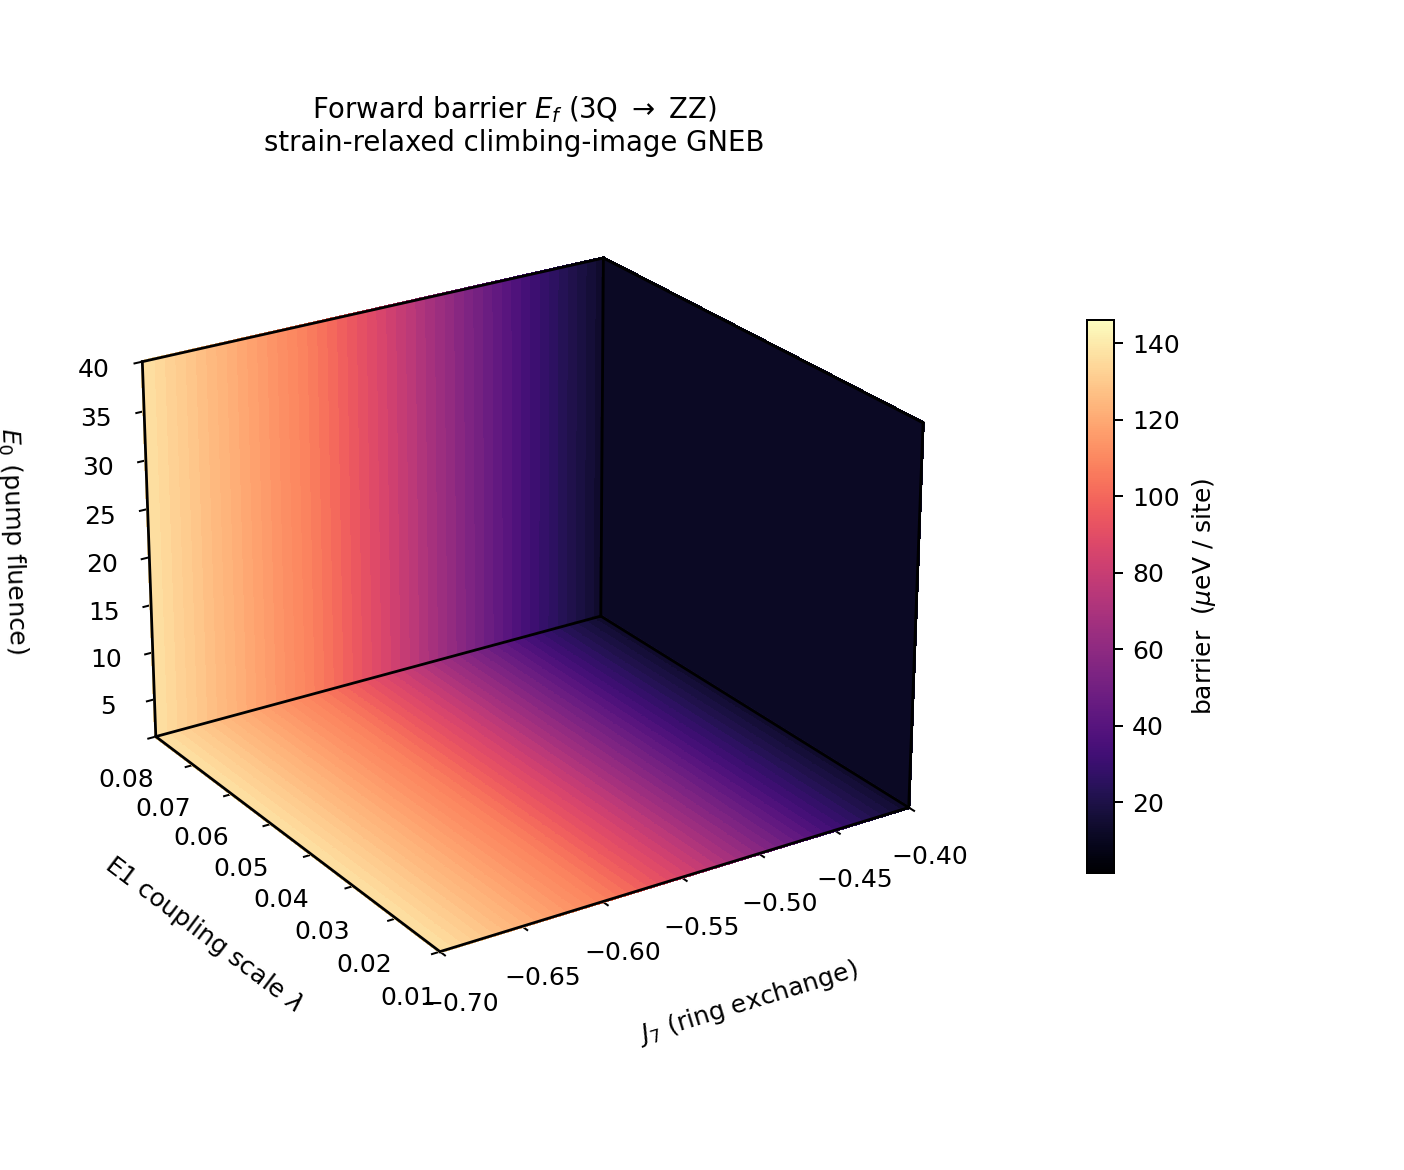
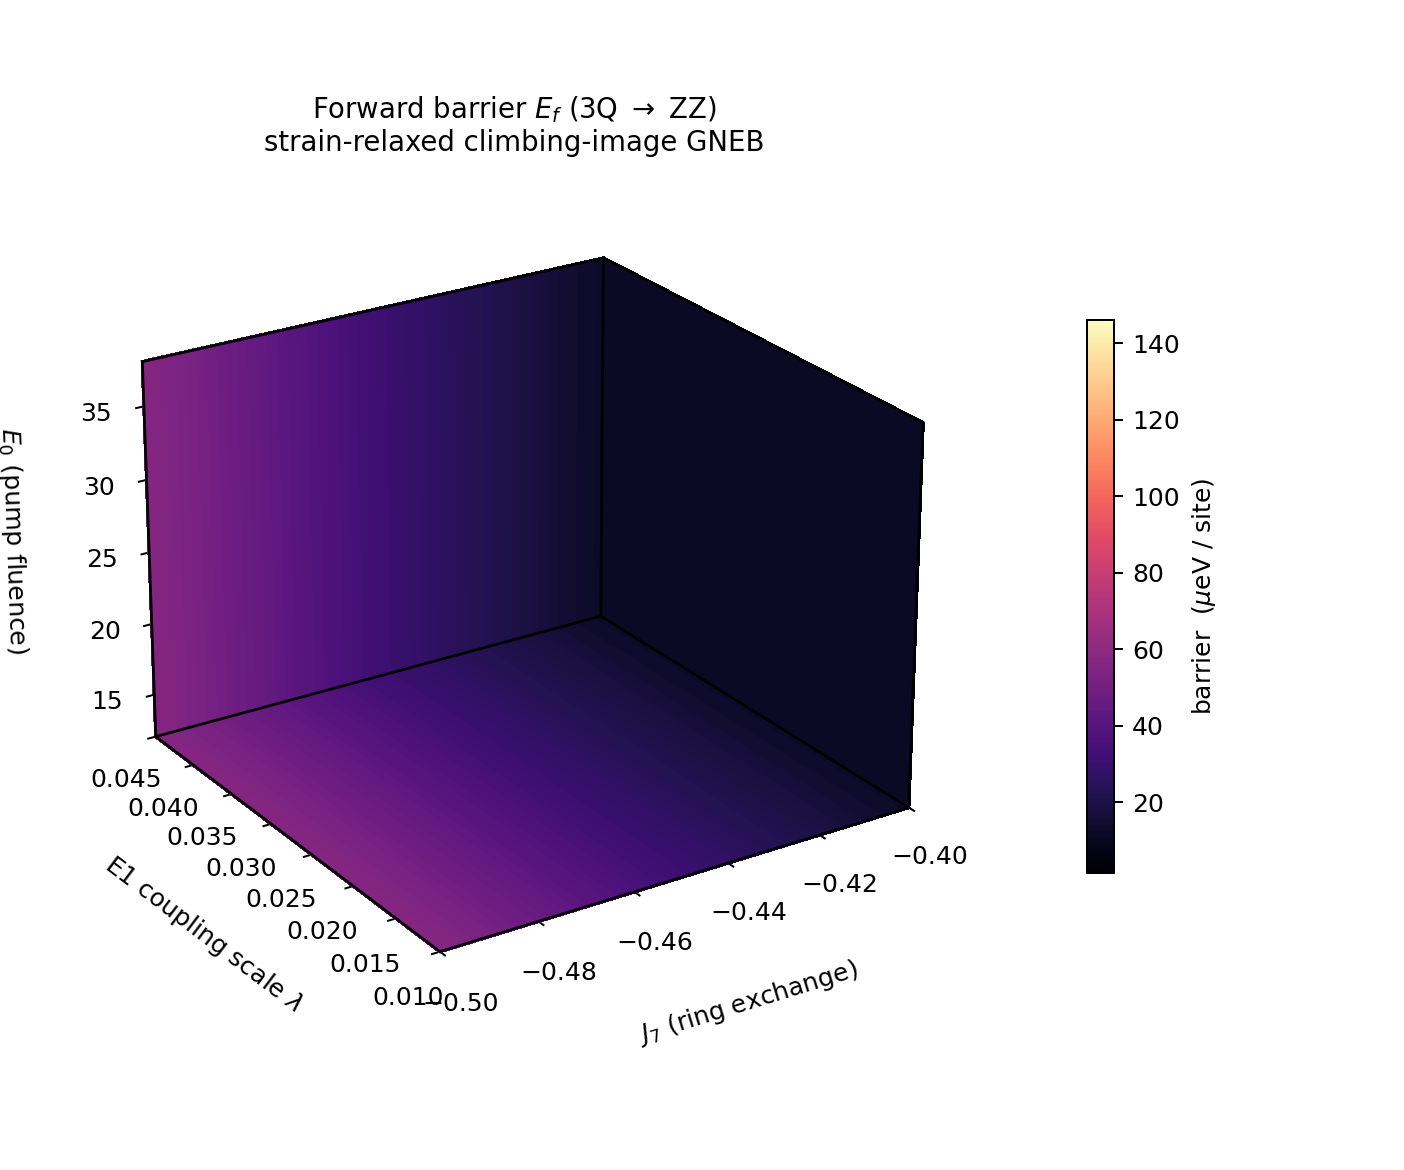
Deliverable 3 redo: merge into kinetic_barrier/, continuation GNEB width sweep
- Folder merge: critical_radius/finite_size_scan -> kinetic_barrier/ (bad legacy
  name from the abandoned side-investigation). L-scaling summary now lives in
  kinetic_barrier/finite_size_scaling/; new width sweep in kinetic_barrier/width_sweep/.
- Root cause of the discontinuous barrier(hw): each hw used an independent slerp
  band + fresh endpoint relaxations -> different MEP basins. New
  gneb_barrier_width_sweep.py sweeps hw ascending with CONTINUATION (endpoints
  and band warm-started from the previous hw), heavier convergence (25 images,
  4000 iters, climb at 2400) -> one continuous MEP family, barrier_vs_hw.csv
  in the style of barrier_vs_j7.csv.
- plot_kinetic_barrier_width.py reads the new CSV; output kinetic_barrier/.

Changed region(s): [[0.0613, 0.2154, 0.6432, 0.8615], [0.5819, 0.7385, 0.6432, 0.7692], [0.2756, 0.8308, 0.3063, 0.8615]]

diff --git a/NCTO_project/scripts/gneb_barrier_width_sweep.py b/NCTO_project/scripts/gneb_barrier_width_sweep.py
@@ -1,0 +1,119 @@
+#!/usr/bin/env python3
+"""Kinetic depinning barrier vs defect width -- continuation GNEB sweep.
+
+Computes the 3Q<->ZZ depinning barrier of the enhanced-|K| line defect as a
+function of half-width hw at fixed L, sweeping hw in ascending order with
+CONTINUATION: each hw warm-starts both its endpoints and its GNEB band from the
+previous hw's converged result.  This keeps the whole sweep on one continuous
+family of minimum-energy paths, eliminating the basin-hopping scatter that an
+independent initialization per hw produces.
+
+Outputs (merged into the kinetic_barrier folder, next to barrier_vs_j7.csv):
+  kinetic_barrier/width_sweep/hw*/report.json + final_band.npz
+  kinetic_barrier/width_sweep/barrier_vs_hw.csv
+"""
+from __future__ import annotations
+
+import argparse
+import csv
+import json
+from pathlib import Path
+
+import numpy as np
+
+import ncto_common as nc
+from gneb_finite_size_scan import (Geom, defect_file, make_cfg, sa_relax,
+                                   strip_init, mep_barrier, rel)
+
+OUT = nc.CAMPAIGN / "kinetic_barrier" / "width_sweep"
+OUT.mkdir(parents=True, exist_ok=True)
+
+
+def run_sweep(args) -> list[dict]:
+    g = Geom(args.lattice)
+    results = []
+    prev_q3 = prev_strip = prev_band = None
+
+    for hw in sorted(args.half_width_values):
+        tag = f"hw{hw:.2f}".replace(".", "p")
+        work_dir = OUT / tag
+        work_dir.mkdir(parents=True, exist_ok=True)
+        report_path = work_dir / "report.json"
+        band_path = work_dir / "final_band.npz"
+
+        if report_path.exists() and not args.force:
+            r = json.loads(report_path.read_text())
+            results.append(r)
+            if band_path.exists():
+                dat = np.load(band_path)
+                prev_band = dat["band"]
+                prev_strip, prev_q3 = prev_band[0], prev_band[-1]
+            print(f"  hw={hw:.2f}: cached  barrier={r['barrier_meV']:.2f} meV", flush=True)
+            continue
+
+        deffile, n_bonds = defect_file(g, work_dir, args.strength, hw)
+        cfg = make_cfg(g, work_dir, deffile)
+
+        # endpoints: continuation from previous hw where available
+        q3_seed = prev_q3 if prev_q3 is not None else g.Q3
+        strip_seed = prev_strip if prev_strip is not None else strip_init(g, 2.5)
+        q3 = sa_relax(g, work_dir, q3_seed, deffile, "r3q", 1600, args.force)
+        strip = sa_relax(g, work_dir, strip_seed, deffile, "rstrip", 1600, args.force)
+
+        print(f"  hw={hw:.2f}: GNEB ({n_bonds} defect bonds"
+              f"{', warm-start' if prev_band is not None else ', fresh band'}) ...", flush=True)
+        gneb = mep_barrier(g, work_dir, cfg, strip, q3,
+                           images=args.images, n_iter=args.n_iter, dt=args.dt,
+                           climb_start=args.climb_start, plateau_win=args.plateau_win,
+                           init_band=prev_band)
+        report = {"lattice": args.lattice, "strength": args.strength, "half_width": hw,
+                  "n_defect_bonds": n_bonds, "barrier_meV": gneb["barrier_meV"],
+                  "saddle_image": gneb["saddle_image"],
+                  "iterations": gneb["iterations_completed"]}
+        report_path.write_text(json.dumps(report, indent=2))
+        results.append(report)
+        print(f"  hw={hw:.2f}: barrier={gneb['barrier_meV']:.2f} meV "
+              f"(saddle img {gneb['saddle_image']}, {gneb['iterations_completed']} iters)", flush=True)
+
+        dat = np.load(band_path)
+        prev_band = dat["band"]
+        prev_strip, prev_q3 = strip, q3
+    return results
+
+
+def main() -> None:
+    ap = argparse.ArgumentParser(description="continuation GNEB barrier-vs-width sweep")
+    ap.add_argument("--lattice", type=int, default=36)
+    ap.add_argument("--strength", type=float, default=0.5)
+    ap.add_argument("--half-width-values", nargs="+", type=float,
+                    default=[0.5, 0.75, 1.0, 1.25, 1.5, 1.75, 2.0, 2.25, 2.5, 2.75, 3.0])
+    ap.add_argument("--images", type=int, default=25)
+    ap.add_argument("--n-iter", type=int, default=4000)
+    ap.add_argument("--dt", type=float, default=0.006)
+    ap.add_argument("--climb-start", type=int, default=2400)
+    ap.add_argument("--plateau-win", type=int, default=250)
+    ap.add_argument("--force", action="store_true")
+    args = ap.parse_args()
+
+    print(f"continuation width sweep: L={args.lattice} s={args.strength} "
+          f"hw={sorted(args.half_width_values)}", flush=True)
+    results = run_sweep(args)
+
+    csv_path = OUT / "barrier_vs_hw.csv"
+    with csv_path.open("w", newline="") as f:
+        w = csv.DictWriter(f, fieldnames=["half_width", "barrier_meV", "n_defect_bonds",
+                                          "saddle_image", "iterations", "valid"])
+        w.writeheader()
+        for r in sorted(results, key=lambda r: r["half_width"]):
+            w.writerow(dict(half_width=r["half_width"], barrier_meV=r["barrier_meV"],
+                            n_defect_bonds=r["n_defect_bonds"], saddle_image=r["saddle_image"],
+                            iterations=r["iterations"],
+                            valid=int(0 < r["saddle_image"] < args.images - 1)))
+    print(f"\n{'hw':>6} {'bonds':>6} {'barrier(meV)':>13}")
+    for r in sorted(results, key=lambda r: r["half_width"]):
+        print(f"{r['half_width']:6.2f} {r['n_defect_bonds']:6d} {r['barrier_meV']:13.2f}")
+    print(f"wrote {rel(csv_path)}")
+
+
+if __name__ == "__main__":
+    main()

diff --git a/NCTO_project/scripts/plot_kinetic_barrier_width.py b/NCTO_project/scripts/plot_kinetic_barrier_width.py
@@ -19,7 +19,8 @@ import matplotlib.pyplot as plt
 import numpy as np
 
 ROOT = Path(__file__).resolve().parents[2]
-FS = ROOT / "NCTO_project" / "tuned_kruger_campaign" / "critical_radius" / "finite_size_scan"
+KB_DIR = ROOT / "NCTO_project" / "tuned_kruger_campaign" / "kinetic_barrier"
+WS = KB_DIR / "width_sweep"
 
 KB = 0.0861733            # meV/K
 J = 0.68                  # meV  (tau0 ~ hbar/J)
@@ -30,17 +31,13 @@ TARGET_TAU = 0.8e-3       # s
 
 
 def collect(lattice: int, strength: float):
-    """Return hw, barrier, and a validity mask (interior saddle = converged MEP;
-    a saddle pinned at image 0 or the last image is a failed path)."""
+    """Read the continuation sweep's barrier_vs_hw.csv (hw, barrier, valid)."""
+    import csv as _csv
     hw, bar, ok = [], [], []
-    for d in sorted(FS.glob(f"L{lattice}_s{strength:.3f}_hw*".replace(".", "p"))):
-        rep = d / "report.json"
-        if not rep.exists():
-            continue
-        r = json.loads(rep.read_text())
-        hw.append(r["half_width"]); bar.append(r["barrier_meV"])
-        si = r.get("saddle_image", -1)
-        ok.append(0 < si < 20)                 # 21-image band -> interior = 1..19
+    with (WS / "barrier_vs_hw.csv").open() as f:
+        for r in _csv.DictReader(f):
+            hw.append(float(r["half_width"])); bar.append(float(r["barrier_meV"]))
+            ok.append(bool(int(r["valid"])))
     o = np.argsort(hw)
     return np.array(hw)[o], np.array(bar)[o], np.array(ok)[o]
 
@@ -62,7 +59,7 @@ def main() -> None:
     ap = argparse.ArgumentParser()
     ap.add_argument("--lattice", type=int, default=36)
     ap.add_argument("--strength", type=float, default=0.5)
-    ap.add_argument("--out", type=Path, default=FS / "kinetic_barrier_vs_width.png")
+    ap.add_argument("--out", type=Path, default=KB_DIR / "kinetic_barrier_vs_width.png")
     args = ap.parse_args()
 
     hw_all, bar_all, ok = collect(args.lattice, args.strength)

diff --git a/NCTO_project/scripts/gneb_finite_size_scan.py b/NCTO_project/scripts/gneb_finite_size_scan.py
@@ -32,7 +32,7 @@ import ncto_common as nc
 from ncto_common import ROOT, EXE, FIELD_EVAL as FE, J, K, GAMMA, GAMMAP, J2_A, J2_B, J3, J7_DEFAULT as J7
 
 NN_CUTOFF = nc.NN_CUTOFF
-OUT_ROOT = nc.CAMPAIGN / "critical_radius" / "finite_size_scan"
+OUT_ROOT = nc.CAMPAIGN / "kinetic_barrier" / "finite_size_scaling"
 OUT_ROOT.mkdir(parents=True, exist_ok=True)
 
 
@@ -190,8 +190,17 @@ def reparametrize(band: np.ndarray) -> np.ndarray:
 
 
 def mep_barrier(g: Geom, work_dir: Path, cfg: Path, start: np.ndarray, end: np.ndarray, *,
-                images: int, n_iter: int, dt: float, climb_start: int, plateau_win: int) -> dict:
-    band = np.array([slerp(start, end, i / (images - 1)) for i in range(images)])
+                images: int, n_iter: int, dt: float, climb_start: int, plateau_win: int,
+                init_band: np.ndarray | None = None) -> dict:
+    if init_band is not None and len(init_band) == images:
+        # warm start (continuation): reuse a converged band from a neighbouring
+        # parameter point; endpoints are replaced and the path re-relaxed.
+        band = rn(init_band.copy())
+    else:
+        band = np.array([slerp(start, end, i / (images - 1)) for i in range(images)])
+    band[0] = start
+    band[-1] = end
+    band = reparametrize(band)
     band[0] = start
     band[-1] = end
     history = []